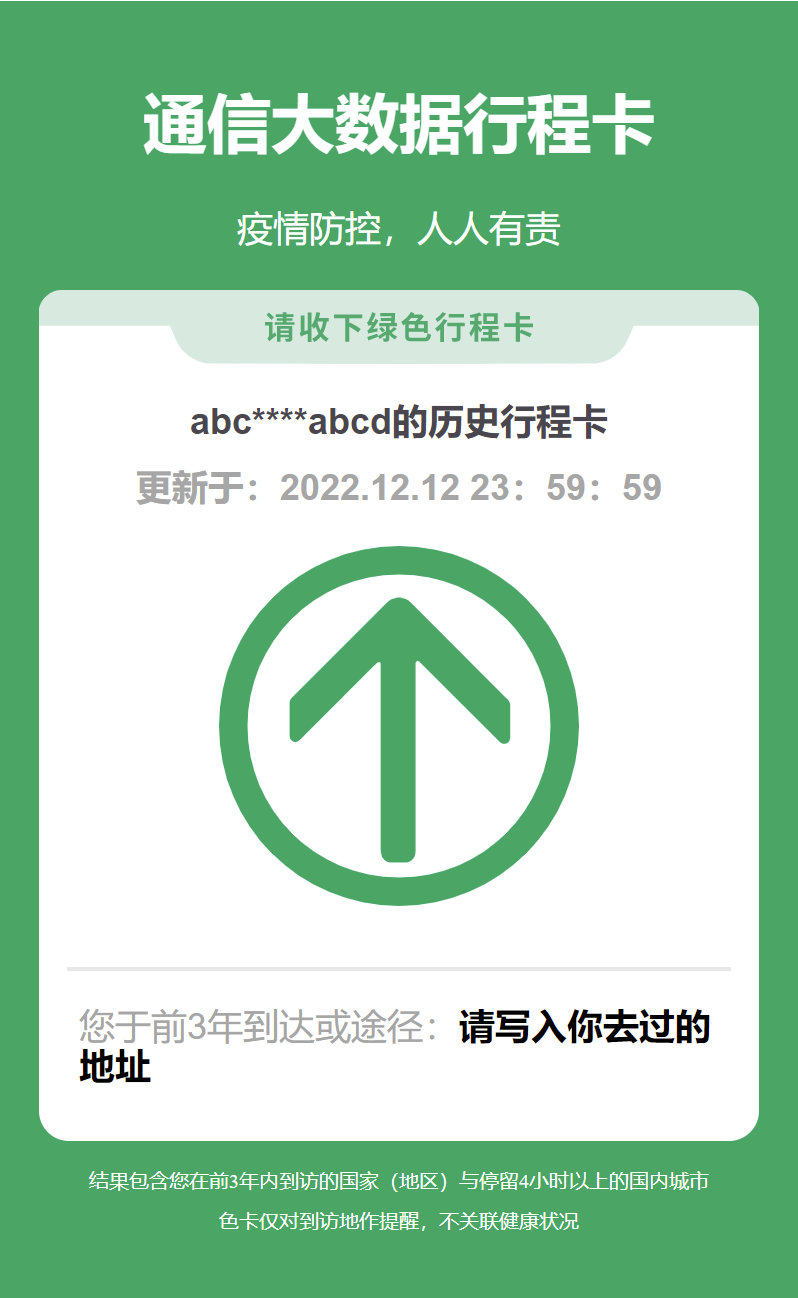
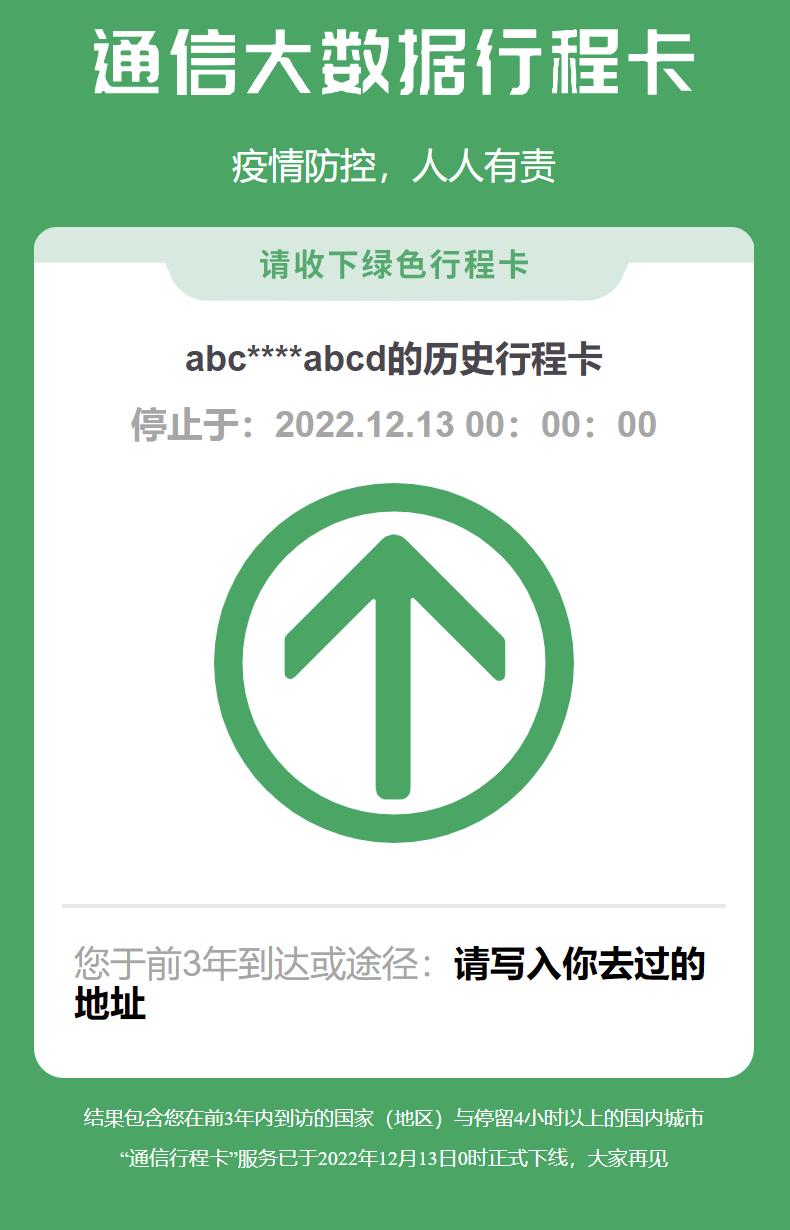
modified

diff --git a/card.html b/card.html
@@ -8,9 +8,11 @@
     <center>
             <div class="totalbox">
                 <br>
-                <h1>
+                <!-- <h1>
                 通信大数据行程卡
-            </h1>
+            </h1> -->
+            <img src="headername.svg" width="300px" alt="行程卡">
+            <br><br>
             <div class="header1">
                 疫情防控，人人有责
             </div>
@@ -22,7 +24,7 @@
             <!-- 请将abc替代成你的手机号码 -->
             <br>
             <updateTime>
-                更新于：2022.12.12 23：59：59
+                停止于：2022.12.13 00：00：00
             </updateTime>
                    <br><br> 
                    <img src="direction.svg" width="180px" alt="绿色箭头" margin="15px">
@@ -37,7 +39,7 @@
             </div>
             <div class="reminderText">
                 结果包含您在前3年内到访的国家（地区）与停留4小时以上的国内城市
-                <br>色卡仅对到访地作提醒，不关联健康状况
+                <br>“通信行程卡”服务已于2022年12月13日0时正式下线，大家再见
             </div> 
             <br>
         </div>
